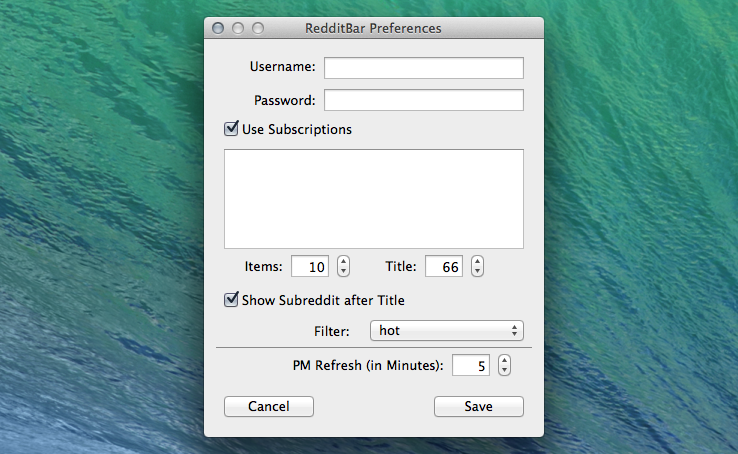
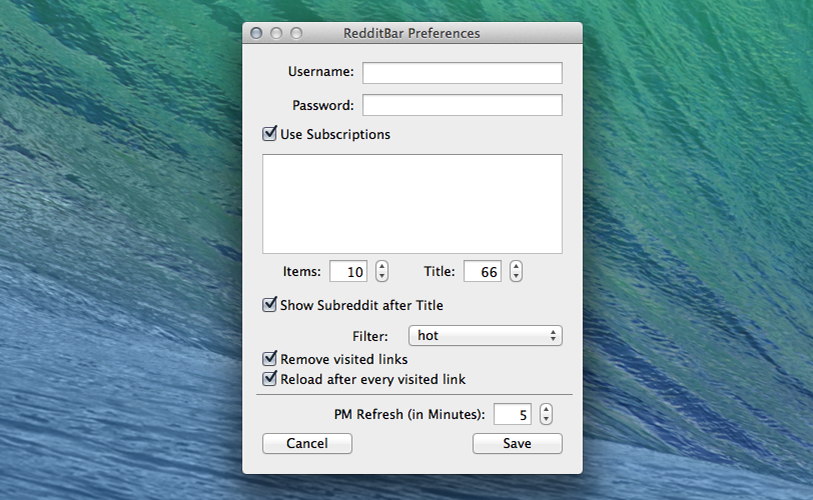
Updated website. Added Changelog.

diff --git a/web/index.html b/web/index.html
@@ -14,12 +14,12 @@
         <div class="container">
             <div class="header">
                 <ul class="nav nav-pills pull-right">
-                    <li><a href="mailto:xythobuz@xythobuz.de">Contact</a></li>
+                    <li><a href="mai&#108;to&#58;%78%79th%6Fbuz&#64;x%&#55;9t%&#54;8ob&#37;75z%2&#69;d&#101;">Contact</a></li>
                 </ul>
                 <h1 class="">RedditBar</h1>
             </div>
             <div class="jumbotron">
-                <div id="carousel" class="carousel slide" data-ride="carousel"  data-interval="6000">
+                <div id="carousel" class="carousel slide" data-ride="carousel"  data-interval="5000">
                     <ol class="carousel-indicators">
                         <li data-target="#carousel" data-slide-to="0" class="active"></li>
                         <li data-target="#carousel" data-slide-to="1"></li>
@@ -29,7 +29,9 @@
                             <img class="screenshot" src="image.png" alt="RedditBar Screenshot 1">
                         </div>
                         <div class="item">
-                            <img class="screenshot" src="prefs.png" alt="RedditBar Preferences Screenshot">
+                            <a href="prefs.png">
+                                <img class="screenshot" src="prefs.png" alt="RedditBar Preferences Screenshot">
+                            </a>
                         </div>
                     </div>
                     <a class="left carousel-control" href="#carousel" data-slide="prev"></a>
@@ -49,8 +51,76 @@
                     <p>Get notified about new PMs or replies to your posts and comments. The refresh interval is configurable!</p>
                 </div>
             </div>
+            <div class="subheading">
+                <h3>Changelog</h3>
+            </div>
+            <div class="panel panel-default">
+                <div class="panel-heading">
+                    <span class="panel-title heading">Version 1.4.0</span>
+                    <span class="pull-right text-muted heading">Will be submitted after 2013-12-28</span>
+                </div>
+                <div class="panel-body">
+                    <ul>
+                        <li>Notification Center integration for unread PMs</li>
+                        <li>Can open both links &amp; comments at the same time</li>
+                        <li>New Preference: Items can be removed after opening them</li>
+                        <li>New Preference: Can load a single link after each removal</li>
+                        <li>Set Title to 0 to disable the title length limit</li>
+                        <li>Bugfix with the steppers in the Pref Window going too far</li>
+                        <li>Stability improvements</li>
+                    </ul>
+                </div>
+            </div>
+            <div class="panel panel-default">
+                <div class="panel-heading">
+                    <span class="panel-title heading">Version 1.3.0</span>
+                    <span class="pull-right text-muted heading">Submitted on 2013-12-21</span>
+                </div>
+                <div class="panel-body">
+                    Initial Mac App Store release!
+                    <ul>
+                        <li>Added keyboard shortcuts for most static menu items</li>
+                        <li>Can select between hot or new links</li>
+                    </ul>
+                </div>
+            </div>
+            <div class="panel panel-default">
+                <div class="panel-heading">
+                    <span class="panel-title heading">Version 1.2.0</span>
+                    <span class="pull-right text-muted heading">No public release</span>
+                </div>
+                <div class="panel-body">
+                    <ul>
+                        <li>Added PM functionality with another icon as notification</li>
+                    </ul>
+                </div>
+            </div>
+            <div class="panel panel-default">
+                <div class="panel-heading">
+                    <span class="panel-title heading">Version 1.1.0</span>
+                    <span class="pull-right text-muted heading">No public release</span>
+                </div>
+                <div class="panel-body">
+                    <ul>
+                        <li>User can select maximum title length</li>
+                        <li>Activate the Preferences window after showing it</li>
+                        <li>Enabled App Sandbox</li>
+                        <li>Added Tooltips for truncated titles</li>
+                    </ul>
+                </div>
+            </div>
+            <div class="panel panel-default">
+                <div class="panel-heading">
+                    <span class="panel-title heading">Version 1.0.0</span>
+                    <span class="pull-right text-muted heading">No public release</span>
+                </div>
+                <div class="panel-body">
+                    Initial release to beta testers. Thanks go to Max &amp; Flo!
+                </div>
+            </div>
             <div class="footer">
-                <p>&copy; 2013 Thomas Buck</p>
+                <span>&copy; 2013 <a href="//xythobuz.de">Thomas Buck</a></span>
+                <span class="pull-right">Made with <a href="//getbootstrap.com">Bootstrap</a></span>
             </div>
         </div>
     <img src="//xythobuz.de/stats/count.php?img" alt="Analytics">

diff --git a/web/style.css b/web/style.css
@@ -87,3 +87,12 @@ body {
     margin-right: auto;
     max-height: 360px;
 }
+
+.subheading {
+    margin-bottom: 20px;
+    border-top: 1px solid #e5e5e5;
+}
+
+.heading {
+    font-weight: bold;
+}
